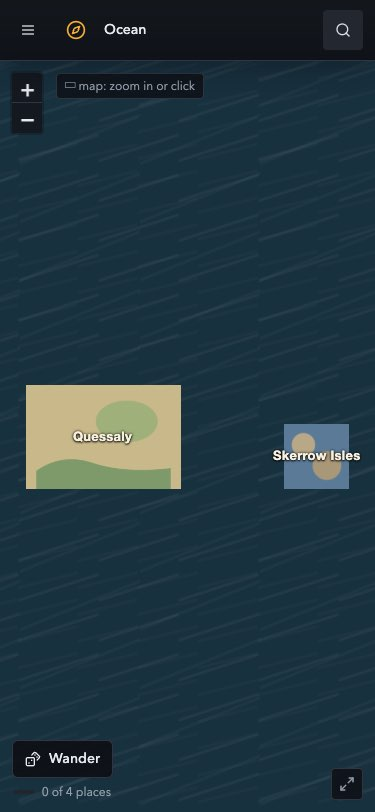
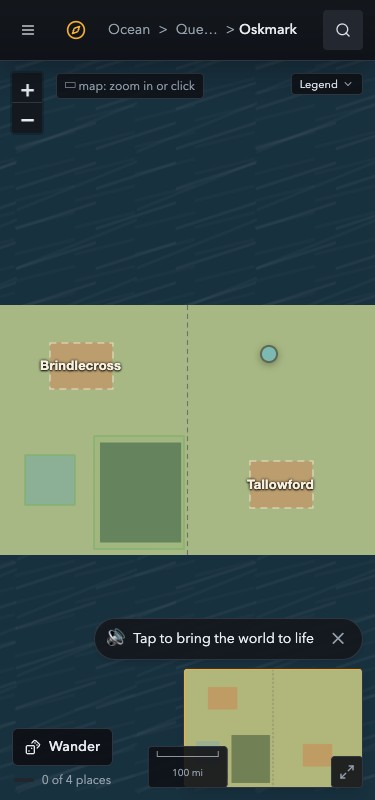
R-38: review fixes

diff --git a/src/pages/AtlasViewer.tsx b/src/pages/AtlasViewer.tsx
@@ -877,7 +877,7 @@ export default function AtlasViewer() {
           Skip to map
         </a>
         <header
-          className={`atlas-toolbar flex items-center gap-2 px-3 md:px-4 py-2.5 border-b border-border ${isV2 ? "flex-nowrap" : ""}`}
+          className={`atlas-toolbar flex items-center gap-2 px-3 md:px-4 py-2.5 border-b border-border ${isV2 ? (phoneBar ? "flex-nowrap" : "flex-wrap md:flex-nowrap") : ""}`}
         >
           <AtlasNavMenu
             publishedAt={data.project.publishedAt}
@@ -904,16 +904,24 @@ export default function AtlasViewer() {
                 : undefined
             }
           />
-          {/* The name used to be `hidden sm:inline`, so a phone showed only the
-              compass — someone opening a shared link couldn't see which world
-              they were looking at. Truncate instead of hiding. */}
+          {/* v1 shows the world's name here (truncated, never hidden). v2 shows
+              only the compass: the campaign chip is hidden on the phone bar, so
+              the campaign name is the link's accessible name and tooltip (and
+              the menu drawer's title). */}
           <Link
             to="/"
             className={`font-display text-lg text-primary hover:opacity-80 flex items-center gap-2 min-w-0 ${phoneBar ? "min-h-10 min-w-10 justify-center" : ""}`}
-            aria-label={isV2 ? "Home" : undefined}
+            aria-label={
+              isV2
+                ? phoneBar && data.project.campaign
+                  ? `${data.project.campaign.name}, home`
+                  : "Home"
+                : undefined
+            }
+            title={phoneBar ? data.project.campaign?.name : undefined}
           >
             <Compass className="h-5 w-5 shrink-0" aria-hidden="true" />
-            {/* v2: the campaign's name is the chip beside it. */}
+            {/* v2: the campaign chip beside it names the campaign (not on the phone bar). */}
             {!isV2 && <span className="truncate max-w-[8.5rem] sm:max-w-none">{titleName}</span>}
           </Link>
           {isV2 && !phoneBar && data.project.campaign && (
@@ -984,7 +992,7 @@ export default function AtlasViewer() {
             aria-label="Search atlas (Ctrl+K)"
           >
             <Search className="h-4 w-4" aria-hidden="true" />
-            <span className="hidden sm:inline">Search</span>
+            {!phoneBar && <span className="hidden sm:inline">Search</span>}
             <kbd className="hidden md:inline text-[10px] px-1.5 py-0.5 rounded bg-muted border border-border">
               ⌘K
             </kbd>
@@ -1052,6 +1060,16 @@ export default function AtlasViewer() {
             className="flex-1 relative min-h-0 isolate"
             aria-label={`Interactive map: ${activeMap?.name ?? "Ocean"}. Use arrow keys to pan, plus and minus to zoom.`}
           >
+            {phoneBar && rulerActive && (
+              <Button
+                variant="secondary"
+                className="absolute top-14 right-3 z-20 min-h-10 min-w-10 gap-2 shadow"
+                onClick={() => setRulerActive(false)}
+              >
+                <Ruler className="h-4 w-4" aria-hidden="true" />
+                Done measuring
+              </Button>
+            )}
             {isV2 && (
               <AtlasCanvas
                 tree={data.tree}

diff --git a/src/test/map/MapBreadcrumb.test.tsx b/src/test/map/MapBreadcrumb.test.tsx
@@ -1,0 +1,75 @@
+import { cleanup, fireEvent, render, screen, within } from "@testing-library/react";
+import { afterEach, describe, expect, it, vi } from "vitest";
+import { MapBreadcrumb } from "@/atlas/map/MapBreadcrumb";
+import type { MapTree, MapTreeNode } from "@/atlas/ocean/mapTree";
+import { makeMap } from "../helpers/makeProject";
+
+// ocean > a > b > c > d: five levels.
+function chainTree(): MapTree {
+  const ids = ["a", "b", "c", "d"];
+  const byId = new Map<string, MapTreeNode>();
+  ids.forEach((id, i) => {
+    byId.set(id, {
+      map: makeMap({ id, name: `Map ${id.toUpperCase()}` }),
+      parentId: i === 0 ? null : ids[i - 1],
+      placement: null,
+      children: [],
+    });
+  });
+  return {
+    ocean: { width: 1000, height: 1000, sea: "#000" },
+    roots: [byId.get("a")!],
+    byId,
+    dropped: [],
+    warnings: [],
+  };
+}
+
+afterEach(cleanup);
+
+describe("MapBreadcrumb, compact (R-38)", () => {
+  it("folds earlier levels of a deep trail into a menu that lists exactly them", async () => {
+    const onGo = vi.fn();
+    render(
+      <MapBreadcrumb tree={chainTree()} view={{ kind: "map", mapId: "d" }} onGo={onGo} compact />,
+    );
+    const nav = screen.getByRole("navigation", { name: "Breadcrumb" });
+    // Shown: the last two levels; the rest sit behind "…".
+    expect(within(nav).getByRole("button", { name: "Map C" })).toBeInTheDocument();
+    expect(within(nav).getByText("Map D")).toHaveAttribute("aria-current", "page");
+    expect(within(nav).queryByRole("button", { name: "Map B" })).not.toBeInTheDocument();
+    fireEvent.keyDown(within(nav).getByRole("button", { name: "Earlier levels" }), {
+      key: "Enter",
+    });
+    const items = await screen.findAllByRole("menuitem");
+    expect(items.map((i) => i.textContent)).toEqual(["Ocean", "Map A", "Map B"]);
+    fireEvent.click(items[2]);
+    expect(onGo).toHaveBeenLastCalledWith({ kind: "map", mapId: "b" });
+  });
+
+  it("each hidden level goes to its own id", async () => {
+    const expected = [{ kind: "ocean" }, { kind: "map", mapId: "a" }, { kind: "map", mapId: "b" }];
+    for (let i = 0; i < 3; i++) {
+      const onGo = vi.fn();
+      render(
+        <MapBreadcrumb tree={chainTree()} view={{ kind: "map", mapId: "d" }} onGo={onGo} compact />,
+      );
+      fireEvent.keyDown(screen.getByRole("button", { name: "Earlier levels" }), { key: "Enter" });
+      fireEvent.click((await screen.findAllByRole("menuitem"))[i]);
+      expect(onGo).toHaveBeenCalledWith(expected[i]);
+      cleanup();
+    }
+  });
+
+  it("does not fold a short trail", () => {
+    render(
+      <MapBreadcrumb
+        tree={chainTree()}
+        view={{ kind: "map", mapId: "b" }}
+        onGo={() => {}}
+        compact
+      />,
+    );
+    expect(screen.queryByRole("button", { name: "Earlier levels" })).not.toBeInTheDocument();
+  });
+});

diff --git a/src/test/pages/AtlasViewer.v2.test.tsx b/src/test/pages/AtlasViewer.v2.test.tsx
@@ -483,7 +483,7 @@ describe("AtlasViewer, v2 phone bar", () => {
     const bar = header();
     expect(bar.getByRole("navigation", { name: "Breadcrumb" })).toBeInTheDocument();
     expect(bar.getByRole("button", { name: /search atlas/i })).toBeInTheDocument();
-    for (const name of [/distance ruler/i, /calm mode/i, /offline options/i, /grid overlay/i]) {
+    for (const name of [/distance/i, /calm mode/i, /offline options/i, /grid/i]) {
       expect(bar.queryByRole("button", { name })).not.toBeInTheDocument();
     }
     expect(document.querySelector("header [data-campaign-chip]")).toBeNull();
@@ -494,16 +494,37 @@ describe("AtlasViewer, v2 phone bar", () => {
     openMenu();
     const tools = await screen.findByRole("group", { name: "Map tools" });
     expect(screen.getByRole("dialog").textContent).toContain(projects.main.campaign!.name);
-    const calm = within(tools).getByRole("button", { name: "Calm mode" });
+    const calm = within(tools).getByRole("button", { name: /calm mode/i });
     const before = calm.getAttribute("aria-pressed");
     fireEvent.click(calm);
     expect(calm.getAttribute("aria-pressed")).not.toBe(before);
     fireEvent.click(calm);
-    const ruler = within(tools).getByRole("button", { name: /distance ruler/i });
+    const ruler = within(tools).getByRole("button", { name: /measure distance/i });
     expect(ruler).toHaveAttribute("aria-pressed", "false");
     fireEvent.click(ruler);
     await waitFor(() =>
       expect(screen.queryByRole("group", { name: "Map tools" })).not.toBeInTheDocument(),
     );
+  });
+
+  it("the ruler from the drawer turns the ruler on, and Done measuring turns it off", async () => {
+    await open("main", "/?map=oskmark");
+    expect(screen.queryByRole("button", { name: /done measuring/i })).not.toBeInTheDocument();
+    openMenu();
+    const tools = await screen.findByRole("group", { name: "Map tools" });
+    fireEvent.click(within(tools).getByRole("button", { name: /measure distance/i }));
+    const done = await screen.findByRole("button", { name: /done measuring/i });
+    // (The hint portals into the map container, which the Leaflet mock keeps detached.)
+    fireEvent.click(done);
+    await waitFor(() =>
+      expect(screen.queryByRole("button", { name: /done measuring/i })).not.toBeInTheDocument(),
+    );
+  });
+
+  it("names the home link after the campaign, since the chip is not on the phone bar", async () => {
+    await open("main", "/?map=oskmark");
+    expect(
+      header().getByRole("link", { name: `${projects.main.campaign!.name}, home` }),
+    ).toBeInTheDocument();
   });
 });

diff --git a/src/atlas/map/MapBreadcrumb.tsx b/src/atlas/map/MapBreadcrumb.tsx
@@ -8,6 +8,7 @@
  *
  * PLAYER-SAFE: reads only the map tree.
  */
+import { useRef } from "react";
 import { MoreHorizontal } from "lucide-react";
 import {
   DropdownMenu,
@@ -41,14 +42,15 @@ export function MapBreadcrumb({
   const { hidden, shown } = compact
     ? collapseCrumbs(crumbs, COMPACT_MAX_CRUMBS)
     : { hidden: [], shown: crumbs };
-  const tap = compact ? "min-h-10 px-1" : "";
+  const tap = compact ? "min-h-10 min-w-10 px-1" : "";
+  const navRef = useRef<HTMLElement>(null);
   const sep = (
     <span aria-hidden="true" className="shrink-0 text-muted-foreground">
       &gt;
     </span>
   );
   return (
-    <nav aria-label="Breadcrumb" className="min-w-0 text-sm">
+    <nav aria-label="Breadcrumb" className="min-w-0 text-sm" ref={navRef} tabIndex={-1}>
       <ol className="flex items-center gap-1 min-w-0 overflow-hidden whitespace-nowrap">
         {hidden.length > 0 && (
           <li className="flex items-center gap-1 shrink-0">
@@ -62,7 +64,14 @@ export function MapBreadcrumb({
                   <MoreHorizontal className="h-4 w-4" aria-hidden="true" />
                 </button>
               </DropdownMenuTrigger>
-              <DropdownMenuContent align="start">
+              <DropdownMenuContent
+                align="start"
+                onCloseAutoFocus={(e) => {
+                  // The chosen level re-renders the trail; keep focus in it.
+                  e.preventDefault();
+                  navRef.current?.focus();
+                }}
+              >
                 {hidden.map((c) => (
                   <DropdownMenuItem
                     key={keyOf(c)}
@@ -81,7 +90,9 @@ export function MapBreadcrumb({
           return (
             <li
               key={keyOf(c)}
-              className={`flex items-center gap-1 min-w-0 ${last ? "" : "shrink-0"}`}
+              className={`flex items-center gap-1 min-w-0 ${
+                last ? "shrink-0 max-w-full" : compact ? "max-w-[30%]" : "shrink-0"
+              }`}
             >
               {(i > 0 || hidden.length > 0) && sep}
               {last ? (

diff --git a/src/test/pages/AtlasViewer.smoke.test.tsx b/src/test/pages/AtlasViewer.smoke.test.tsx
@@ -805,3 +805,43 @@ describe("Search 'this map only' filter is scoped to the active map (N115)", () 
     expect(within(dialog).queryByText("Silver Lake")).not.toBeInTheDocument();
   });
 });
+
+// R-38: the phone bar is v2 only; v1 at phone width keeps its bar.
+describe("AtlasViewer v1 at phone width (R-38)", () => {
+  const originalMatchMedia = window.matchMedia;
+  afterEach(() => {
+    Object.defineProperty(window, "matchMedia", {
+      configurable: true,
+      writable: true,
+      value: originalMatchMedia,
+    });
+  });
+
+  it("keeps ruler and calm in the bar and has no Map tools group", async () => {
+    Object.defineProperty(window, "matchMedia", {
+      configurable: true,
+      writable: true,
+      value: (query: string) => ({
+        matches: query.includes("max-width: 767px"),
+        media: query,
+        onchange: null,
+        addListener: () => {},
+        removeListener: () => {},
+        addEventListener: () => {},
+        removeEventListener: () => {},
+        dispatchEvent: () => false,
+      }),
+    });
+    render(
+      <MemoryRouter>
+        <AtlasViewer />
+      </MemoryRouter>,
+    );
+    await waitFor(() => expect(document.querySelector("main#atlas-main")).toBeInTheDocument());
+    const bar = within(document.querySelector("header")!);
+    expect(bar.getByRole("button", { name: "Toggle distance ruler" })).toBeInTheDocument();
+    expect(bar.getByRole("button", { name: /calm mode/i })).toBeInTheDocument();
+    expect(screen.queryByRole("group", { name: "Map tools" })).not.toBeInTheDocument();
+    expect(screen.queryByRole("button", { name: /done measuring/i })).not.toBeInTheDocument();
+  });
+});

diff --git a/src/atlas/OfflineStatus.tsx b/src/atlas/OfflineStatus.tsx
@@ -216,7 +216,7 @@ export function OfflineMenu({ className, row = false }: OfflineMenuProps) {
         <Button
           variant="ghost"
           size={row ? "default" : "icon"}
-          aria-label="Offline options"
+          aria-label={row ? undefined : "Offline options"}
           className={
             row ? `w-full justify-start gap-3 px-3 font-normal ${className ?? ""}` : className
           }
@@ -227,7 +227,12 @@ export function OfflineMenu({ className, row = false }: OfflineMenuProps) {
           ) : (
             <CloudOff className="h-4 w-4" aria-hidden="true" />
           )}
-          {row && "Offline options"}
+          {row && (
+            <>
+              <span className="flex-1 text-left">Offline options</span>
+              <span className="text-xs text-muted-foreground">{text.label}</span>
+            </>
+          )}
         </Button>
       </DropdownMenuTrigger>
       <DropdownMenuContent align={row ? "start" : "end"} className="w-64">

diff --git a/src/atlas/AtlasNavMenu.tsx b/src/atlas/AtlasNavMenu.tsx
@@ -1,5 +1,5 @@
-import { useState } from "react";
-import { Link } from "react-router";
+import { useEffect, useState } from "react";
+import { Link, useLocation } from "react-router";
 import {
   Menu,
   Compass,
@@ -54,6 +54,15 @@ export function AtlasNavMenu({
 }: AtlasNavMenuProps) {
   const editorEnabled = __INCLUDE_EDITOR__ && isDmToolsEnabled();
   const [open, setOpen] = useState(false);
+  // The drawer is controlled: close it when the page or the map changes under it
+  // (a link, Back/Forward), so it never stays open over the new view.
+  const { pathname, search } = useLocation();
+  useEffect(() => setOpen(false), [pathname, search]);
+  useEffect(() => {
+    const close = () => setOpen(false);
+    window.addEventListener("popstate", close);
+    return () => window.removeEventListener("popstate", close);
+  }, []);
   return (
     <Sheet open={open} onOpenChange={setOpen}>
       <SheetTrigger asChild>

diff --git a/src/atlas/PhoneBarTools.tsx b/src/atlas/PhoneBarTools.tsx
@@ -30,7 +30,6 @@ export function PhoneBarTools({
           variant={grid.on ? "secondary" : "ghost"}
           className={ROW}
           onClick={grid.toggle}
-          aria-label="Toggle grid overlay"
           aria-pressed={grid.on}
         >
           <Grid3x3 className="h-4 w-4" aria-hidden="true" />
@@ -44,7 +43,6 @@ export function PhoneBarTools({
           onToggleRuler();
           close();
         }}
-        aria-label="Toggle distance ruler"
         aria-pressed={rulerActive}
       >
         <Ruler className="h-4 w-4" aria-hidden="true" />
@@ -55,7 +53,6 @@ export function PhoneBarTools({
         className={ROW}
         onClick={() => setCalmMode(!calm)}
         title="Calm mode: no map flights, waves, transitions or sound"
-        aria-label="Calm mode"
         aria-pressed={calm}
       >
         <Wind className="h-4 w-4" aria-hidden="true" />

diff --git a/src/atlas/ruler/RulerLayer.tsx b/src/atlas/ruler/RulerLayer.tsx
@@ -91,7 +91,7 @@ export function RulerLayer({ active, mapId, mapHeight, scale, onClear }: RulerLa
           }}
           className="text-xs bg-black/60 text-white px-3 py-1.5 rounded-full whitespace-nowrap"
         >
-          Click two points to measure
+          Click or tap two points to measure
         </div>,
         map.getContainer(),
       )

diff --git a/docs/tracker/rebuild-2026-11/issues/R-38-phone-top-bar.md b/docs/tracker/rebuild-2026-11/issues/R-38-phone-top-bar.md
@@ -46,6 +46,14 @@ Polish item P-03, branch `polish-p03-phone-top-bar`.
   reachable. Crumb buttons, home, menu and search are 40 px tall at least.
 - Bar height at 375 px: 137 px before, 61 px after (ocean and Quessaly > Oskmark, both campaigns).
   Desktop (1280): 61 px and the same controls as the baseline.
+- Review fixes: search shows its word only off the phone bar; earlier crumbs shrink and truncate
+  while the current one keeps its room; a visible "Done measuring" chip (top right of the map)
+  ends the ruler on the phone bar, and the ruler hint reads "Click or tap two points to measure";
+  the "..." menu returns focus to the breadcrumb; menu rows are named by their visible text
+  (offline row also shows its short state); the menu drawer closes on Back/Forward and link
+  changes; the header wraps as before on v2 desktop and tablet (wrap, then no wrap from 768 px).
+- Provisional call: campaign name not shown on the phone bar (it is the drawer title and the
+  home link's name, aria-label and tooltip); Isak to look.
 - Provisional calls: the grid toggle also moved into the menu; the phone breakpoint is `md`
   (768), so a 768 to 1023 px tablet keeps the full bar plus the hamburger as before. v1 is
   untouched (its bar never wraps, and the phone layout is v2 only).
